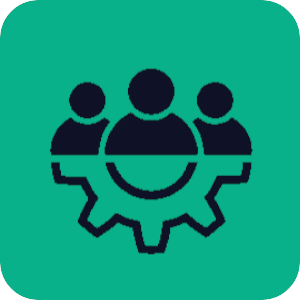
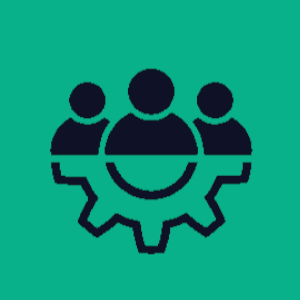
footer with transparency, soft-skills images adjusted, condition to auto-scroll header added (pending to adjust the padding for this), added dropdown function

diff --git a/new/java.js b/new/java.js
@@ -1,4 +1,19 @@
 function showContent(contentId, clickedElement) {
+
+    const lastposition = window.scrollY || document.documentElement.scrollTop;
+    const footerHeight = 100;
+    const desiredScrollPosition = 300; // Posición a la que quieres desplazar
+
+    // Obtener el evento actual
+    var event = event || window.event;
+
+    
+    
+    // Prevenir el comportamiento predeterminado del navegador (evita el scroll y actualización)
+
+    event.preventDefault();
+    
+
     // Ocultar todos los elementos de contenido
     var contents = document.querySelectorAll('.content');
     contents.forEach(function(content) {
@@ -18,7 +33,85 @@ function showContent(contentId, clickedElement) {
     // Poner la clase activa en el <p> del enlace clicado
     var clickedParagraph = clickedElement.closest('p'); // Encuentra el <p> padre del enlace clicado
     clickedParagraph.classList.add('active');
+
+    window.scrollTo({
+        top: lastposition,
+        behavior: 'auto',
+    });
+
+    // Comprobar la posición actual del scroll
+    
+
+    const containerwindow = window.innerHeight;
+    const containermain = document.querySelector('main');
+    const containerfooter = document.querySelector('footer');
+    const paragraph = document.getElementsByClassName('.content');
+    const paragraphHeight = paragraph.clientHeight;
+
+    containermain.style.paddingBottom = `0px`;
+    if ((containermain.clientHeight + containerfooter.clientHeight) <= containerwindow) {
+        containermain.style.paddingBottom = `450px`;
+    }
+    else{
+        containermain.style.paddingBottom = `0px`;
+    }
+    
+
+
+
+    // Desplazar la página a 300px si está por debajo de 300px
+    if (lastposition >= 300) {
+        window.scrollTo({
+            top: 300,
+            behavior: 'auto' // Desplazamiento suave
+        });
+    }
+    else if (lastposition > 0 & lastposition < 300) {
+        window.scrollTo({
+            top: 300,
+            behavior: 'smooth' // Desplazamiento suave
+        });
+    }
+
+    const lastposition2 = window.scrollY || document.documentElement.scrollTop;
+    
+
 }
+
+
+
+
+
+
+//Hacer aparecer el parrafo cuando se clicka encima
+document.querySelectorAll('.dropdown').forEach(function(dropdown) {
+    dropdown.addEventListener('click', function() {
+        var par = this.nextElementSibling;
+        if (par.style.maxHeight) {
+            par.style.maxHeight = null;
+        } else {
+            par.style.maxHeight = par.scrollHeight + "px";
+        }
+    });
+});
+
+
+
+
+
+
+
+window.addEventListener('scroll', function() {
+    const footer = document.querySelector('footer');
+    const scrollPosition = window.scrollY + window.innerHeight;
+    const documentHeight = document.documentElement.scrollHeight;
+
+    if (scrollPosition >= documentHeight) {
+        footer.classList.add('no-transparency');
+    } else {
+        footer.classList.remove('no-transparency');
+    }
+});
 
 
 
@@ -31,4 +124,9 @@ window.onload = function() {
     var defaultClicked = document.querySelector('nav p');
     // Mostrar el contenido por defecto y resaltar el primer enlace del menú
     showContent('AboutMe',defaultClicked);
+
+    window.scrollTo({
+        top: 0, // Altura a la que quieres desplazarte
+        behavior: 'auto'  // Desplazamiento suave
+    });
 };

diff --git a/new/style.css b/new/style.css
@@ -113,8 +113,8 @@ main div table{
     justify-content: center;
     padding-bottom: 30px;
 }
-main tr img{
-    border-radius: 15px;
+#AboutMe tr img{
+    border-radius: 10px;
     box-shadow: 7px -7px 2px 0 #f4f4f411;
 }
 main td{
@@ -131,6 +131,15 @@ main td{
     font-style: italic;
     color: #f4f4f477;
 }
+main .paragraph {
+    max-height: 0;
+    overflow: hidden;
+    transition: max-height 0.5s ease;
+  }
+main .dropdown:hover{
+    color: #09b18a;
+    transition: color 0.3s ease; /* Transición suave */
+}
 
 
 
@@ -141,7 +150,6 @@ footer {
     display: flex;
     align-content: center;
     align-items: center;
-    background-color: #0f1126;
     color: #FFFFFF;
     flex-direction: column;
     position: sticky; /* Fija el footer en la parte inferior de la ventana */
@@ -149,6 +157,9 @@ footer {
     width: 100%;
     z-index: 1000; /* Asegura que el footer esté encima del contenido */
     font-family: 'Lato', sans-serif;
+    background: linear-gradient(to top, #0f1126 95%, rgba(255, 0, 0, 0));
+    padding-top: 12px;
+    padding-bottom: 10px;
 }
 footer p {
     font-size: 12px; /* Texto de tamaño pequeño para el footer */
@@ -159,4 +170,8 @@ footer td{
 }
 footer img{
     opacity: 0.7;
+}
+footer.no-transparency{
+    background: linear-gradient(to top, #0f1126 100%, rgba(255, 0, 0, 0));
+    padding-top: 8px;
 }

diff --git a/new/porfolio-en.html b/new/porfolio-en.html
@@ -42,7 +42,7 @@
                     <td>Analytical</td>
                     <td>Versatile</td>
                     <td>Organized</td>
-                    <td>Leadership</td>  
+                    <td>Leader</td>  
                 </tr>
                 <tr id="table-content">
                     <td>Skilled at diagnosing and resolving technical issues precisely.</td>
